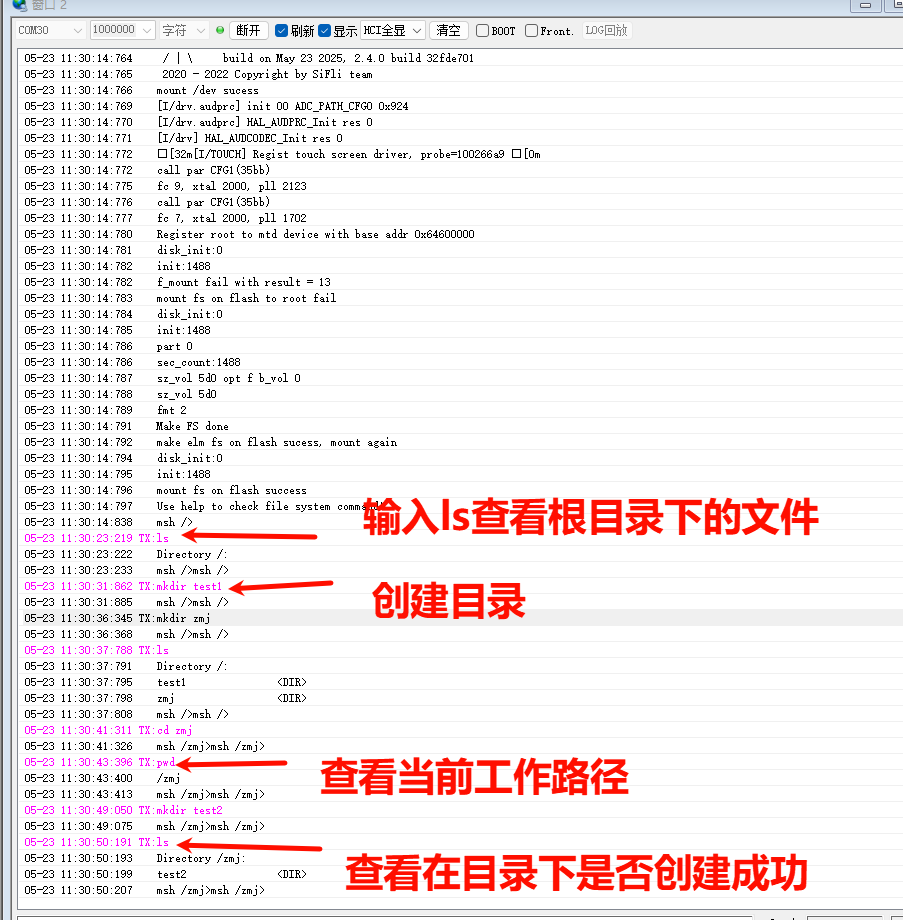
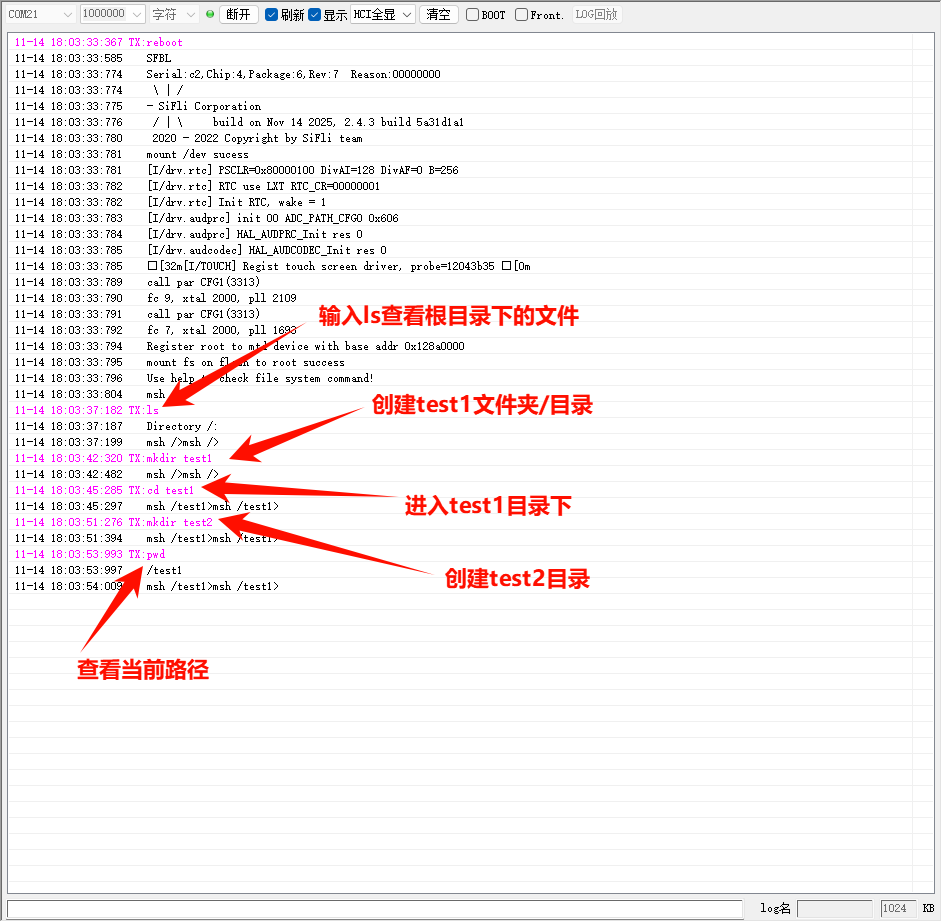
[bug][example][fatfs] Modified the readme document of fatfs
ext-redmine: #101, REDMINE-101

[Description in detail]

diff --git a/example/storage/fatfs/nand/README.md b/example/storage/fatfs/nand/README.md
@@ -101,13 +101,17 @@ Read Ops/sec: 5389 ops/sec
 ```
 mount fs on flash root success//说明文件系统挂载成功
 ```
-1、串口发送ls查看根目录下的文件。
+1.串口发送ls查看根目录下的文件
 
-2、在输入mkdir test1，创建test1文件夹（目录）。
+2.输入mkdir test1，创建test1文件夹（目录）
 
-3、再次输入cd+目录名，到XXX目录下，输入pwd进行查看当前工作路径是否在cd到的目录下 。
+3.输入cd test1，进入test1文件夹（目录）
 
-4、可在该工作目录下再次进行创建mkdir test2，ls查看该目录下是否进行创建成功。
+4.输入mkdir test2，创建test2文件夹（目录）
+
+5.再次输入ls，看test2文件夹（目录）是否创建成功
+
+6.输入pwd查看当前工作路径
 ![alt text](assets/file_system_log_1.png)
 ### 故障排查
 如果log未能出现预期的log和现象，可以从已下几个方面进行故障排查：

diff --git a/example/storage/fatfs/nor/README.md b/example/storage/fatfs/nor/README.md
@@ -119,13 +119,17 @@ ls               - List information about the FILEs.
 ```
 mount fs on flash root success//说明文件系统挂载成功
 ```
-1、串口发送ls查看根目录下的文件
+1.串口发送ls查看根目录下的文件
 
-2、输入mkdir test2，创建test2文件夹（目录）
+2.输入mkdir test1，创建test1文件夹（目录）
 
-3、再次输入ls，看test2文件夹（目录）是否创建成功
+3.输入cd test1，进入test1文件夹（目录）
 
-4、输入pwd查看当前工作路径
+4.输入mkdir test2，创建test2文件夹（目录）
+
+5.再次输入ls，看test2文件夹（目录）是否创建成功
+
+6.输入pwd查看当前工作路径
 ![alt text](assets/file_system_log_1.png)
 ### 故障排查
 如果log未能出现预期的log和现象，可以从已下几个方面进行故障排查：